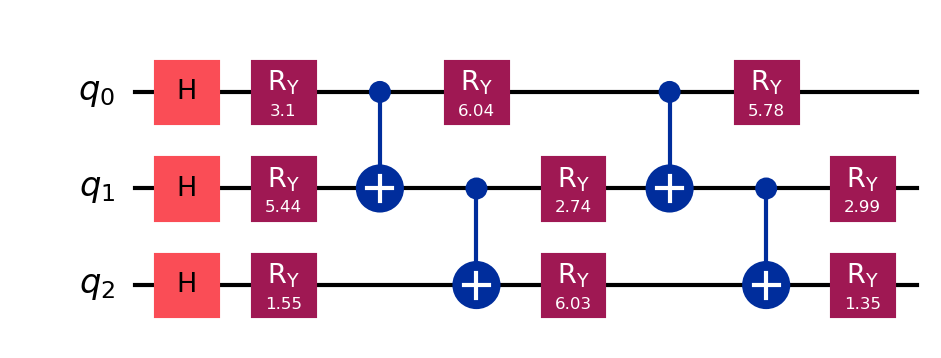
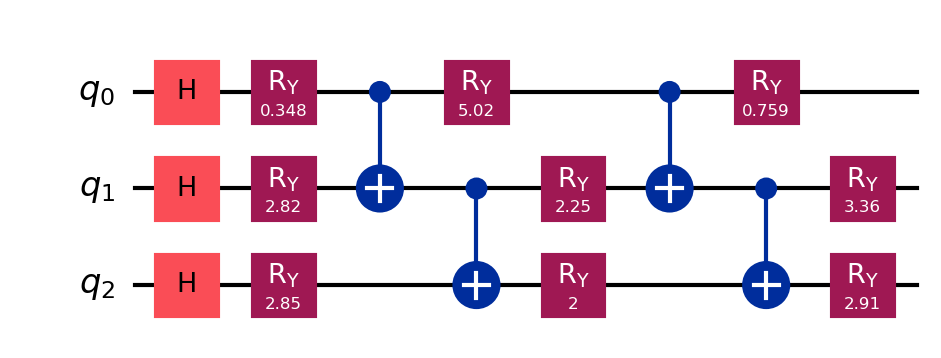
Extend noise comparison to expressive ansatz; add shallow-vs-expressive noisy convergence plot; add README

diff --git a/src/vqe_tfim/noise.py b/src/vqe_tfim/noise.py
@@ -1,0 +1,99 @@
+"""
+Noisy VQE simulation using a real-hardware noise model.
+
+Uses qiskit-aer's AerSimulator with a NoiseModel derived from a
+FakeManilaV2 calibration snapshot (real IBM device noise: gate errors,
+readout errors, decoherence times). Energy is estimated via finite-shot
+Pauli-term measurement, not exact statevector expectation.
+"""
+import numpy as np
+from qiskit import transpile
+from qiskit_aer import AerSimulator
+from qiskit_aer.noise import NoiseModel
+from qiskit_ibm_runtime.fake_provider import FakeManilaV2
+
+_backend = FakeManilaV2()
+_noise_model = NoiseModel.from_backend(_backend)
+_sim = AerSimulator(noise_model=_noise_model)
+
+
+def _build_measurement_circuits(theta, ansatz_fn, pauli_labels):
+    qc = ansatz_fn(theta)
+    circuits = []
+    for label in pauli_labels:
+        meas_qc = qc.copy()
+        for i, p in enumerate(reversed(label)):
+            if p == 'X':
+                meas_qc.h(i)
+            elif p == 'Y':
+                meas_qc.sdg(i)
+                meas_qc.h(i)
+        meas_qc.measure_all()
+        circuits.append(meas_qc)
+    return circuits
+
+
+def noisy_energy(theta, ansatz_fn, hamiltonian, shots=512):
+    """Estimate <psi(theta)|H|psi(theta)> under FakeManilaV2 noise, batched."""
+    pauli_labels = hamiltonian.paulis.to_labels()
+    coeffs = [c.real for c in hamiltonian.coeffs]
+
+    circuits = _build_measurement_circuits(theta, ansatz_fn, pauli_labels)
+    transpiled = transpile(circuits, _sim, optimization_level=1)
+    results = _sim.run(transpiled, shots=shots).result()
+
+    total = 0.0
+    for idx, label in enumerate(pauli_labels):
+        counts = results.get_counts(idx)
+        n_shots = sum(counts.values())
+        rev_label = label[::-1]
+        exp = 0.0
+        for bitstring, count in counts.items():
+            bits = bitstring.replace(' ', '')
+            parity = 1
+            for i, p in enumerate(rev_label):
+                if p != 'I':
+                    bit = int(bits[-(i + 1)])
+                    parity *= (1 - 2 * bit)
+            exp += parity * count
+        exp /= n_shots
+        total += coeffs[idx] * exp
+    return total
+
+
+def noisy_gradient(theta, ansatz_fn, hamiltonian, shots=512):
+    """Parameter-shift gradient using noisy energy estimates."""
+    shift = np.pi / 2
+    grad = np.zeros(len(theta))
+    for i in range(len(theta)):
+        tp = theta.copy()
+        tp[i] += shift
+        tm = theta.copy()
+        tm[i] -= shift
+        grad[i] = 0.5 * (
+            noisy_energy(tp, ansatz_fn, hamiltonian, shots)
+            - noisy_energy(tm, ansatz_fn, hamiltonian, shots)
+        )
+    return grad
+
+
+def run_noisy_vqe(hamiltonian, ansatz_fn, n_params, iterations=60,
+                   lr=0.05, shots=512, seed=42):
+    """
+    Gradient-descent VQE loop under FakeManilaV2 noise.
+
+    Note: iterations defaults to 60, not 300 (as in the noiseless
+    run_vqe), purely for runtime cost — each iteration requires
+    2*n_params + 1 batched noisy circuit evaluations. Normalize any
+    area-under-curve comparison against the noiseless run by
+    iteration count before comparing the two.
+    """
+    rng = np.random.default_rng(seed)
+    theta = rng.uniform(0, 2 * np.pi, n_params)
+    history = []
+    for _ in range(iterations):
+        e = noisy_energy(theta, ansatz_fn, hamiltonian, shots)
+        history.append(e)
+        grad = noisy_gradient(theta, ansatz_fn, hamiltonian, shots)
+        theta = theta - lr * grad
+    return theta, history

diff --git a/run noise experiment.py b/run noise experiment.py
@@ -1,0 +1,77 @@
+"""
+Compares noiseless vs noisy VQE for BOTH the shallow and expressive
+ansatzes, under a real-hardware noise model (FakeManilaV2 snapshot).
+Run after run_experiment.py.
+
+Requires: qiskit-aer, qiskit-ibm-runtime
+    pip install qiskit-aer qiskit-ibm-runtime
+
+Note: the expressive ansatz run takes noticeably longer than shallow
+(more parameters -> more parameter-shift circuit evaluations per
+iteration). Expect several minutes total for both noisy runs.
+"""
+import numpy as np
+import matplotlib.pyplot as plt
+
+from src.vqe_tfim.hamiltonian import build_hamiltonian
+from src.vqe_tfim.ansatz import shallow_ansatz, expressive_ansatz
+from src.vqe_tfim.optimizer import run_vqe
+from src.vqe_tfim.exact_solver import exact_ground_state
+from src.vqe_tfim.noise import run_noisy_vqe
+
+H = build_hamiltonian(J=1, h=0.5)
+exact_energy = exact_ground_state(H)
+
+# ── Noiseless baselines (reuse the same settings as run_experiment.py) ────
+print("Running noiseless shallow VQE (300 iterations)...")
+_, history_clean_s = run_vqe(H, ansatz_fn=shallow_ansatz, n_params=6)
+
+print("Running noiseless expressive VQE (300 iterations)...")
+_, history_clean_e = run_vqe(H, ansatz_fn=expressive_ansatz, n_params=9)
+
+# ── Noisy runs (FakeManilaV2 snapshot, finite-shot estimation) ────────────
+print("Running noisy shallow VQE under FakeManilaV2 model (60 iterations)...")
+_, history_noisy_s = run_noisy_vqe(
+    H, ansatz_fn=shallow_ansatz, n_params=6, iterations=60, shots=512
+)
+
+print("Running noisy expressive VQE under FakeManilaV2 model (60 iterations)...")
+_, history_noisy_e = run_noisy_vqe(
+    H, ansatz_fn=expressive_ansatz, n_params=9, iterations=60, shots=512
+)
+
+# ── Summary table ───────────────────────────────────────────────────────
+def summarize(name, history):
+    final = history[-1]
+    gap = abs(final - exact_energy)
+    auc_norm = np.trapezoid(history) / len(history)
+    print(f"  {name:32s} E = {final:9.4f}   gap = {gap:.4f}   AUC(norm) = {auc_norm:.4f}")
+    return final, gap, auc_norm
+
+print()
+print(f"  Exact energy: {exact_energy:.4f}")
+print()
+summarize("Shallow, noiseless", history_clean_s)
+summarize("Expressive, noiseless", history_clean_e)
+_, gap_noisy_s, _ = summarize("Shallow, noisy", history_noisy_s)
+_, gap_noisy_e, _ = summarize("Expressive, noisy", history_noisy_e)
+
+print()
+print(f"  Expressive/shallow noise-gap ratio: {gap_noisy_e / gap_noisy_s:.2f}x")
+
+# ── Combined plot: shallow vs expressive, under noise ──────────────────────
+fig, ax = plt.subplots(figsize=(8, 5))
+ax.plot(history_noisy_s, color='steelblue', linewidth=2,
+        label='Shallow (noisy, 6 params)')
+ax.plot(history_noisy_e, color='darkorange', linewidth=2,
+        label='Expressive (noisy, 9 params)')
+ax.axhline(exact_energy, color='black', linestyle='--', linewidth=1.5, label='Exact')
+ax.set_xlabel('Iteration')
+ax.set_ylabel('Energy')
+ax.set_title('Noisy VQE Convergence — Shallow vs Expressive Ansatz\n'
+             'FakeManilaV2 noise model, 512 shots', fontweight='bold')
+ax.legend()
+ax.grid(True, alpha=0.3)
+plt.tight_layout()
+plt.savefig('noise_comparison_both.png', dpi=150, bbox_inches='tight')
+print('\n  Saved: noise_comparison_both.png')

diff --git a/run_experiment.py b/run_experiment.py
@@ -80,29 +80,35 @@ plt.tight_layout()
 plt.savefig("expressibility_gap.png", dpi=150, bbox_inches='tight')
 print("  Saved: expressibility_gap.png")
 
-# ── Plot 3: Magnetic field sweep ───────────────────────────────────────────
+# ── Plot 3: Magnetic field sweep (shallow AND expressive) ────────────────
 h_values = np.linspace(0, 2, 10)
 exact_energies = []
 vqe_shallow_energies = []
+vqe_expressive_energies = []
 
-print("\n  Running magnetic field sweep...")
+print("\n  Running magnetic field sweep (shallow + expressive)...")
 for h_val in h_values:
     H_h = build_hamiltonian(J=1, h=h_val)
     exact_energies.append(exact_ground_state(H_h))
-    _, hist = run_vqe(H_h, ansatz_fn=shallow_ansatz, n_params=6)
-    vqe_shallow_energies.append(hist[-1])
+    _, hist_s = run_vqe(H_h, ansatz_fn=shallow_ansatz, n_params=6)
+    vqe_shallow_energies.append(hist_s[-1])
+    _, hist_e = run_vqe(H_h, ansatz_fn=expressive_ansatz, n_params=9)
+    vqe_expressive_energies.append(hist_e[-1])
 
 fig3, ax = plt.subplots(figsize=(8, 5))
 ax.plot(h_values, exact_energies, 'r--', linewidth=2, label='Exact')
 ax.plot(h_values, vqe_shallow_energies, 'o-', color='steelblue',
-        linewidth=2, markersize=5, label='VQE (shallow)')
+        linewidth=2, markersize=5, label='VQE (shallow, 6 params)')
+ax.plot(h_values, vqe_expressive_energies, 's-', color='darkorange',
+        linewidth=2, markersize=5, label='VQE (expressive, 9 params)')
 ax.set_xlabel("Magnetic Field (h)", fontsize=12)
 ax.set_ylabel("Ground State Energy", fontsize=12)
-ax.set_title("Energy vs Magnetic Field — 3-Qubit TFIM", fontweight='bold')
+ax.set_title("Energy vs Magnetic Field — 3-Qubit TFIM\nShallow vs Expressive Ansatz",
+             fontweight='bold')
 ax.legend()
 ax.grid(True, alpha=0.3)
 
 plt.tight_layout()
 plt.savefig("energy_vs_field.png", dpi=150, bbox_inches='tight')
-print("  Saved: energy_vs_field.png")
+print("  Saved: energy_vs_field.png (now includes both ansatzes)")
 print("\n  Done.")

diff --git a/src/vqe_tfim/optimizer.py b/src/vqe_tfim/optimizer.py
@@ -27,16 +27,22 @@ def parameter_shift_gradient(theta, hamiltonian, ansatz_fn):
     return grad
 
 
-def run_vqe(hamiltonian, ansatz_fn, n_params, iterations=300, learning_rate=0.05, seed=42):
+def run_vqe(hamiltonian, ansatz_fn, n_params, iterations=300, learning_rate=0.05, seed=42,
+            track_params=False):
     rng = np.random.default_rng(seed)
     theta = rng.uniform(0, 2 * np.pi, n_params)
     energy_history = []
-
+    param_history = [] if track_params else None
+ 
     for step in range(iterations):
         e = energy(theta, hamiltonian, ansatz_fn)
         energy_history.append(e)
-
+        if track_params:
+            param_history.append(theta.copy())
+ 
         grad = parameter_shift_gradient(theta, hamiltonian, ansatz_fn)
         theta = theta - learning_rate * grad
-
+ 
+    if track_params:
+        return theta, energy_history, np.array(param_history)
     return theta, energy_history

diff --git a/README.md b/README.md
@@ -1,68 +1,43 @@
 # VQE Simulation of a 3-Qubit Transverse Field Ising Model
 
-Implementation of the Variational Quantum Eigensolver (VQE) algorithm to estimate 
-the ground state energy of a three-qubit Transverse Field Ising Model (TFIM), with 
-analysis of ansatz expressibility using exact diagonalization as a benchmark.
+Variational Quantum Eigensolver implementation studying the effect of
+ansatz expressibility and hardware noise on ground-state energy estimation.
 
-## Model
-
-The Hamiltonian studied is:
-
-H = J(Z₀Z₁ + Z₁Z₂) + h(X₀ + X₁ + X₂)
-
-where J is the nearest-neighbor coupling strength and h is the transverse magnetic 
-field. Simulations were performed with J=1 and h varied from 0 to 2.
+## Overview
+- Hamiltonian: H = J(Z1Z2 + Z2Z3) + h(X1+X2+X3), J=1, h=0.5
+- Two ansatz circuits compared: shallow (6 params) vs expressive (9 params)
+- Noiseless results via exact statevector simulation
+- Noisy results via a FakeManilaV2 (real IBM hardware calibration snapshot) noise model
 
 ## Key Results
-
-| Method | Ground State Energy | Gap from Exact |
+| | Final Energy | Gap vs Exact |
 |---|---|---|
-| Exact Diagonalization | -2.4032 | — |
-| Expressive Ansatz (9 params) | -2.3426 | 0.0606 |
-| Shallow Ansatz (6 params) | -2.3216 | 0.0816 |
+| Exact diagonalization | -2.4032 | — |
+| Shallow VQE (noiseless) | -2.3216 | 0.082 |
+| Expressive VQE (noiseless) | -2.3426 | 0.061 |
+| Shallow VQE (noisy) | ~-1.92 | ~0.48 |
+| Expressive VQE (noisy) | ~-1.22 | ~1.18 |
 
-The expressive ansatz closed **25.8%** of the expressibility gap left by the 
-shallow circuit. Both circuits plateau well before 300 iterations, confirming 
-the remaining gap is a structural limit of the ansatz architecture, not an 
-optimization failure.
+**Key finding:** the expressive ansatz outperforms the shallow ansatz in
+noiseless simulation, but this reverses under realistic hardware noise —
+the deeper circuit's extra entangling layer accumulates more gate error,
+making the simpler ansatz more noise-resilient despite being less accurate
+in the ideal case.
 
-## Project Structure
-
-
-## Results
-
-### Energy Convergence
-![Convergence](convergence_comparison.png)
-
-### Ansatz Expressibility Gap
-![Expressibility Gap](expressibility_gap.png)
-
-### Energy vs Magnetic Field
-![Field Sweep](energy_vs_field.png)
-
-## Circuit Diagrams
-
-### Shallow Ansatz (6 parameters)
-![Shallow Ansatz](shallow_ansatz_circuit.png)
-
-### Expressive Ansatz (9 parameters)
-![Expressive Ansatz](expressive_ansatz_circuit.png)
+## Structure
+- `src/vqe_tfim/` — Hamiltonian, ansatz circuits, optimizer, noise model
+- `run_experiment.py` — noiseless VQE, convergence plots, field sweep
+- `run_noise_experiment.py` — noisy VQE comparison (both ansatzes)
 
 ## Setup
-
-```bash
-python -m venv .venv
-.venv\Scripts\activate       # Windows
 pip install -r requirements.txt
+pip install qiskit-aer qiskit-ibm-runtime   # for noise simulation
+
+## Usage
 python run_experiment.py
-```
+python run_noise_experiment.py
 
-## Stack
-- Python 3.14
-- Qiskit 2.4.2
-- qiskit-aer 0.17.2
-- NumPy / Matplotlib
-
-## Author
-R. Sanju — M.Sc. Physics (Quantum Computing), Bharathiar University  
-Thesis project, Dr. N.G.P. Arts and Science College | IISc Bangalore (CHEP internship)
+## Notes
+- Noisy results use finite-shot (512 shots) measurement and are
+  stochastic — expect small run-to-run variation.
+- FakeManilaV2 is a static calibration snapshot, not a live hardware connection.